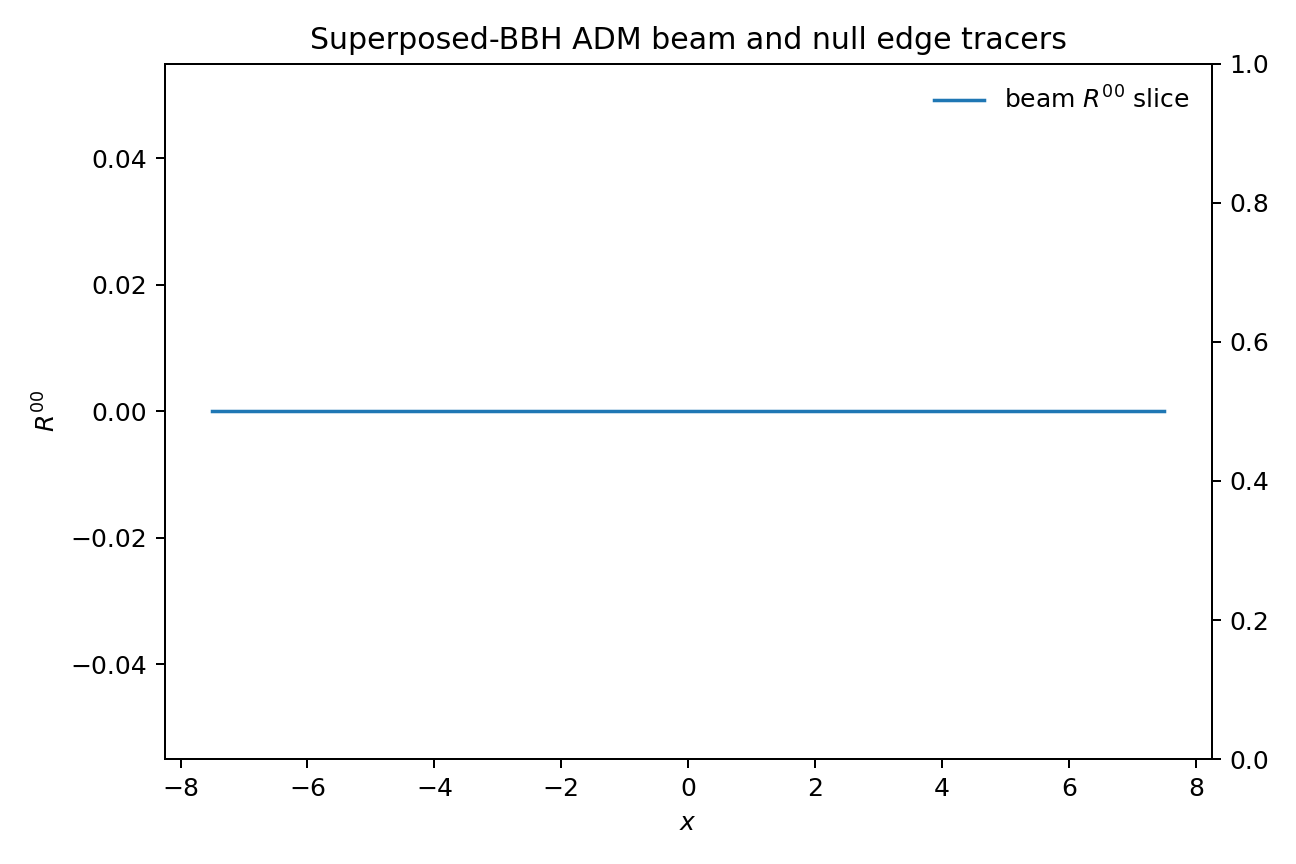
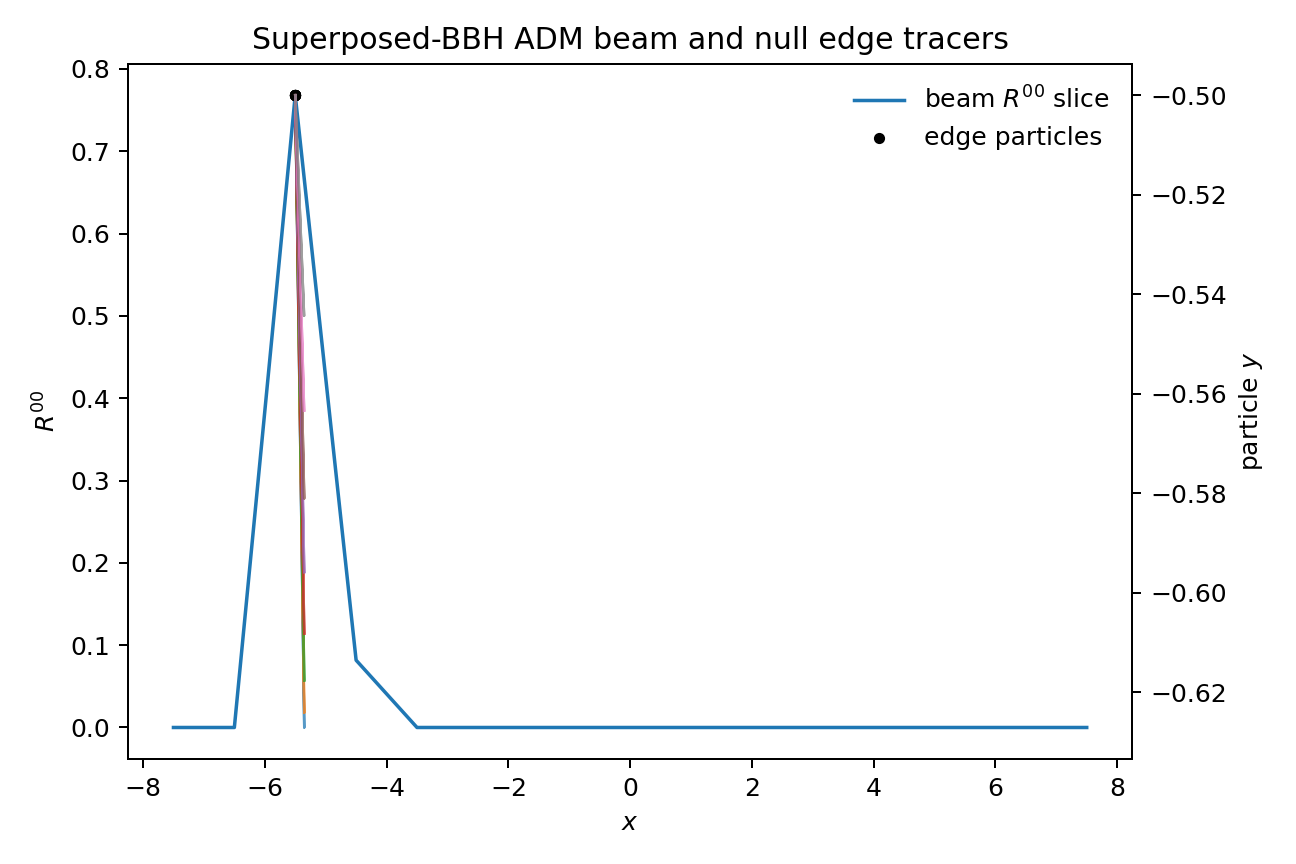
Document dynamical ADM radiation validation

diff --git a/dyngr_radiation_paper/dyngr_radiation_method.tex b/dyngr_radiation_paper/dyngr_radiation_method.tex
@@ -37,15 +37,17 @@ hole backgrounds or for metric data supplied by a dynamical spacetime solver.
 The new \code{dyn\_radiation} module keeps an exact compatibility mode for the
 legacy stationary solver, but adds an ADM formulation in which the evolved
 quantity is the Eulerian densitized intensity, the spatial transport speed is
-\(\alpha s^i-\beta^i\), and the geometric energy source is written in Valencia
-form using \(\alpha\), \(\beta^i\), \(\gamma_{ij}\), and \(K_{ij}\).  This avoids
-assuming a time-independent metric and does not require explicit gauge-field
-time derivatives.  We also add a diagnostic null-geodesic particle pusher for
-beam-edge tracers on ADM backgrounds.  Flat-space beam tests reproduce the
-legacy solver to roundoff, radiation-hydrodynamic linear-wave tests reproduce
-the legacy error norms in stationary Kerr-Schild mode, and a superposed
-boosted-Kerr-Schild binary test exercises the ADM beam source and null-particle
-tracers.
+\(\alpha s^i-\beta^i\), angular geodesic advection is computed from the ADM
+Hamiltonian, and the geometric energy source is written in Valencia form using
+\(\alpha\), \(\beta^i\), \(\gamma_{ij}\), and \(K_{ij}\).  This avoids assuming a
+time-independent metric and does not require explicit gauge-field time
+derivatives beyond the ADM metric-evolution relation for
+\(\partial_t\gamma_{ij}\).  We also add a diagnostic null-geodesic particle
+pusher for beam-edge tracers on ADM backgrounds.  Flat-space beam tests
+reproduce the legacy solver to roundoff, radiation-hydrodynamic linear-wave
+tests reproduce the legacy error norms in stationary Kerr-Schild mode, and a
+superposed boosted-Kerr-Schild binary test exercises the ADM beam source, ADM
+matter coupling, and null-particle tracers.
 \end{abstract}
 
 \noindent\textbf{Keywords:} numerical relativity; radiation hydrodynamics;
@@ -68,12 +70,12 @@ The goal of the implementation described here is narrower than a full
 production radiation scheme.  We add a separate \code{dyn\_radiation} package,
 rather than changing the existing \code{radiation} module, so that the legacy
 stationary path remains available and bitwise comparisons remain possible.  The
-first ADM branch implements spatial transport and the radiation energy source in
-a Valencia-compatible form.  It deliberately does not yet include ADM angular
-geodesic advection; the code therefore requires \code{angular\_fluxes=false} in
-ADM mode.  This is sufficient for beam propagation, source-term verification,
-and dynamical-background smoke tests, while leaving a clean path toward the full
-momentum-space transport operator.
+current ADM branch implements spatial transport, angular geodesic advection,
+radiation-matter coupling, and the radiation energy source in a
+Valencia-compatible form.  The angular advection coefficients are rebuilt from
+cached ADM geometry each stage, so ADM mode now supports
+\code{angular\_fluxes=true}.  The implementation remains separate from the
+legacy solver so stationary CKS behavior can still be tested directly.
 
 The paper is organized as follows.  Section~\ref{sec:legacy} summarizes the
 stationary-metric solver.  Section~\ref{sec:adm} derives the ADM variables and
@@ -236,10 +238,51 @@ The corresponding Valencia momentum equation is
     -E\partial_j\alpha\right].
   \label{eq:valencia_momentum}
 \end{equation}
-Recovering Equation~\eqref{eq:valencia_momentum} at the discrete angular level
-requires a momentum-space advection operator for ADM geodesic bending.  That
-operator is not part of the present ADM transport branch; this is the reason ADM
-runs currently reject \code{angular\_fluxes=true}.
+\subsection{ADM angular geodesic advection}
+
+ADM angular advection is computed from the coordinate-time null Hamiltonian
+\begin{equation}
+  H(x^i,p_i)=\alpha\sqrt{\gamma^{ij}p_i p_j}-\beta^i p_i .
+  \label{eq:adm_hamiltonian}
+\end{equation}
+For the Eulerian tetrad normalization used here,
+\(\sqrt{\gamma^{ij}p_i p_j}=1\), \(p_i=e^{(\hat a)}_{\ i}\ell_{(\hat a)}\),
+and
+\begin{align}
+  \dot x^i &= \alpha s^i-\beta^i,\\
+  \dot p_i &=
+  -\partial_i\alpha+p_j\partial_i\beta^j
+  -\frac{\alpha}{2}p_jp_k\partial_i\gamma^{jk}.
+  \label{eq:adm_pdot}
+\end{align}
+The local angular direction is reconstructed using the cached Cholesky
+co-triad \(e^{(\hat a)}_{\ i}\),
+\begin{equation}
+  \ell^{(\hat a)} = E^i_{\ (\hat a)}p_i .
+\end{equation}
+Differentiating this relation in the same triad gauge gives
+\begin{equation}
+  \dot\ell^{(\hat a)}
+  =E^i_{\ (\hat a)}
+  \left[
+    \dot p_i
+    -\left(\partial_t e^{(\hat b)}_{\ i}
+    +\dot x^j\partial_j e^{(\hat b)}_{\ i}\right)\ell_{(\hat b)}
+  \right].
+  \label{eq:admdotell}
+\end{equation}
+The time derivative of the co-triad is obtained by differentiating the same
+Cholesky factorization used for the spatial triad, with
+\begin{equation}
+  \partial_t\gamma_{ij}
+  =-2\alpha K_{ij}+D_i\beta_j+D_j\beta_i .
+  \label{eq:adm_gdot}
+\end{equation}
+Equation~\eqref{eq:admdotell} is projected onto the existing geodesic-grid
+angular face normals.  The angular finite-volume flux then advects the ADM
+conserved intensity \(U_n=\sqrt{\gamma}I_n\) directly.  In the CKS
+compatibility branch the legacy angular primitive \(U_n/k^0_n\) is still used,
+so the stationary path is unchanged.
 
 \section{Numerical Algorithm and Implementation}
 \label{sec:alg}
@@ -266,11 +309,15 @@ At each explicit stage, ADM mode performs the following operations:
 \begin{enumerate}
   \item Fill or update ADM variables on cell centers and faces.
   \item Construct Eulerian spatial tetrads by factorizing \(\gamma_{ij}\).
-  \item Fill \(\sqrt{\gamma}\), \(\alpha\), \(\beta^i\), and tetrad columns on
-        the faces needed by spatial transport.
+  \item Fill cached \(\sqrt{\gamma}\), \(\alpha\), \(\beta^i\),
+        \(\gamma_{ij}\), \(\gamma^{ij}\), \(K_{ij}\), tetrad columns,
+        co-triads, spatial metric gradients, and co-triad derivatives.
   \item Reconstruct \(\I_n=U_n/\sqrt{\gamma}\) to faces.
   \item Compute face speeds \(v^i_n=\alpha s^i_n-\beta^i\) and fluxes from
         Equation~\eqref{eq:admflux}.
+  \item Compute angular drift from Equations~\eqref{eq:adm_pdot} and
+        \eqref{eq:admdotell}; form angular fluxes using \(U_n\) as the
+        upwinded quantity.
   \item Apply flux divergence to \(U_n\).
   \item Apply the per-angle geometric source in Equation~\eqref{eq:anglesource}.
   \item Apply matter/source terms, boundary exchange, and AMR operations.
@@ -317,9 +364,12 @@ forms
   s^i_n = E_{(\hat{a})}^{\ i}\ell_n^{(\hat{a})}
 \end{equation}
 with a small dense matrix-vector product.  The natural next optimization is to
-cache \(\sqrt{\gamma}\), \(\alpha\), \(\beta^i\), the tetrad columns, and any
-needed metric gradients once per stage, then reuse them across all angular
-transport and source kernels.  This keeps the cost scaling as
+cache all metric quantities needed by Equations~\eqref{eq:adm_pdot} and
+\eqref{eq:admdotell} once per stage, then reuse them across all angular
+transport and source kernels.  That cache now contains \(\sqrt{\gamma}\),
+\(\alpha\), \(\beta^i\), \(\gamma_{ij}\), \(\gamma^{ij}\), \(K_{ij}\), the
+triad and co-triad, spatial gradients, and \(\partial_t e^{(\hat a)}_{\ i}\).
+This keeps the cost scaling as
 \(O(N_{\mathrm{cell}})\) for metric preparation plus
 \(O(N_{\mathrm{cell}}N_\Omega)\) for angular transport, instead of rebuilding a
 complete tetrad inside each angle loop.
@@ -393,6 +443,25 @@ are \(0\) for both the CKS-compatible and ADM-flat branches.  The same ADM flat
 beam input also completed under \code{mpirun -n 2}, testing MPI decomposition
 for this path.
 
+A separate stationary Kerr-Schild ADM smoke test is included at
+\path{inputs/tests/dynrad_bh_beam_adm.athinput}.  That input keeps the metric
+time-independent but non-flat, and runs \code{geometry=adm} with
+\code{angular\_fluxes=true}.  It therefore exercises the Hamiltonian angular
+drift, metric-gradient cache, and ADM angular timestep limiter without relying
+on the BBH problem generator.  The short regression completed to \(t=0.2\)
+with finite radiation output.
+
+The dynamic-metric smoke input
+\begin{center}
+\small
+\path{inputs/tests/dynrad_z4c_wave_adm.athinput}
+\end{center}
+adds \code{dyn\_radiation} to the Z4c linear-wave background.  This checks
+that ADM metric fields supplied by the Z4c-to-ADM conversion are accepted by
+the standalone radiation module and that the per-stage geometry cache can be
+refreshed on a time-dependent metric with \code{angular\_fluxes=true}.  The
+compact regression completed without NaNs or infinities.
+
 \begin{figure}[htbp]
 \centering
 \includegraphics[width=0.82\linewidth]{figures/beam_comparison.png}
@@ -453,14 +522,16 @@ The binary-background input is
 \path{dyngr_radiation_paper/inputs/dynbbh_beam_particles.athinput}.
 \end{center}
 It exercises the ADM beam source on the superposed boosted Kerr-Schild binary
-background in \code{src/pgen/dynbbh.cpp}.  It also initializes null particles on
-the beam edge and advances them using Equations~\eqref{eq:null_x} and
-\eqref{eq:null_k}.  The serial smoke test produced a finite beam slice with
-\(\max R^{00}=0.767972\), wrote a normal-size particle track file, and generated
-the diagnostic figure shown in Figure~\ref{fig:dynbbh}.  A zero-step MPI setup
-for this input completed, but a full coupled two-rank dynbbh/MHD evolution was
-not certified in this pass because the pre-existing coupled path stalled after
-cycle zero independently of the new particle-output fixes.
+background in \code{src/pgen/dynbbh.cpp}.  It runs with
+\code{geometry=adm} and \code{angular\_fluxes=true}.  It also initializes null
+particles on the beam edge and advances them using Equations~\eqref{eq:null_x}
+and \eqref{eq:null_k}.  The serial smoke test produced a finite beam slice with
+\(\max R^{00}=0.768007\), wrote a normal-size particle track file, and generated
+the diagnostic figure shown in Figure~\ref{fig:dynbbh}.  A second serial run
+enabled ADM radiation-matter coupling with absorption and scattering opacities
+and completed without NaNs.  A two-rank flat ADM beam run passed.  A full
+two-rank dynbbh/MHD evolution was not certified in this pass because that
+coupled path stalled after cycle zero even when ADM angular fluxes were disabled.
 
 \begin{figure}[htbp]
 \centering
@@ -480,8 +551,11 @@ Test & Quantity checked & Result \\
 Flat beam, CKS compatibility & \(\max |R^{00}_{\rm dynrad}-R^{00}_{\rm legacy}|\) & \(0\) \\
 Flat beam, ADM mode & \(\max |R^{00}_{\rm ADM}-R^{00}_{\rm legacy}|\) & \(0\) \\
 Flat ADM beam, MPI & two-rank decomposition & passed \\
+Stationary KS ADM beam & nonzero ADM angular drift & passed \\
+Dynamic Z4c ADM smoke & time-dependent ADM metric cache & passed \\
 CKS linear wave & final error row & identical \\
 BBH ADM beam & finite beam and particle tracks & passed in serial \\
+BBH ADM coupling & absorption/scattering with MHD primitives & passed in serial \\
 BBH coupled MPI evolution & full two-rank dynbbh/MHD run & not certified \\
 \bottomrule
 \end{tabular}
@@ -504,8 +578,8 @@ Metric source & Analytic stationary CKS metric & CKS compatibility mode or ADM m
 Conserved intensity & \(k^0k_0I\) & CKS: \(k^0k_0I\); ADM: \(\sqrt{\gamma}I\) \\
 Spatial speed & \(k^i\) from stationary tetrad & CKS: \(k^i\); ADM: \(\alpha s^i-\beta^i\) \\
 Metric source terms & Stationary tetrad and angular drift coefficients & ADM Valencia energy source using \(K_{ij}\) and \(\partial_i\alpha\) \\
-Angular bending & Precomputed CKS coefficients & Not yet enabled in ADM mode \\
-Matter coupling & Existing local implicit path & CKS-compatible path retained; full ADM validation pending \\
+Angular bending & Precomputed CKS coefficients & Cached ADM Hamiltonian angular drift \\
+Matter coupling & Existing local implicit path & CKS path retained; ADM uses \(I=U/\sqrt{\gamma}\), Eulerian tetrad frequency, and Valencia moment feedback \\
 Binary backgrounds & Not supported directly & Supported through ADM fields \\
 \bottomrule
 \end{tabular}
@@ -523,29 +597,21 @@ sources are built from ADM variables supplied by the active spacetime module.
 \section{Discussion and Limitations}
 \label{sec:discussion}
 
-The present implementation is a controlled first step toward dynamical
-radiation transport.  It is complete enough to move radiation energy on ADM
-backgrounds, to reproduce stationary beam and linear-wave regressions, and to
-diagnose beam propagation on the superposed binary metric.  It is not yet a
-complete general relativistic discrete-ordinates scheme on arbitrary dynamical
-spacetimes.
+The present implementation is a controlled step toward dynamical radiation
+transport.  It moves radiation energy on ADM backgrounds, bends the angular
+directions with an ADM Hamiltonian operator, reproduces stationary beam and
+linear-wave regressions, and diagnoses beam propagation on the superposed binary
+metric.  It is still not a final production radiation module.  The angular
+operator uses second-order metric-gradient caches; higher-order gradients and
+limiters can be added behind the same cache interface.  The discrete
+momentum-source consistency check in Equation~\eqref{eq:valencia_momentum} is
+the next validation target.
 
-The most important missing piece is the ADM angular transport operator.  In a
-full scheme, the angular directions \(\ell_n^{(\hat{a})}\) must be advected by
-the tetrad-frame geodesic equation so that the discrete moments reproduce both
-the energy source in Equation~\eqref{eq:valenciaE} and the momentum source in
-Equation~\eqref{eq:valencia_momentum}.  A practical implementation should avoid
-per-angle tetrad reconstruction by caching the Eulerian tetrad and metric
-gradients once per stage, then evaluating angular drift coefficients with
-matrix-vector operations in each angle bin.  This is also the natural place to
-add higher-order interpolation and flux-limited angular advection.
-
-Matter coupling is another area that needs a dedicated ADM pass.  The
-CKS-compatible branch preserves the existing behavior so that regression tests
-remain meaningful.  A production ADM radiation-hydrodynamics path should express
-emission, absorption, and scattering in the Eulerian/comoving tetrad used by the
-ADM transport variables, then update gas and radiation consistently with the
-Valencia conserved variables.
+The ADM matter-coupling path now uses the Eulerian tetrad frequency factor,
+\(I=U/\sqrt{\gamma}\), and gas feedback through the Valencia radiation moments.
+It has passed flat and BBH smoke tests, but it still needs a broader validation
+suite with moving-fluid absorption/scattering, optically thick diffusion, and
+time-dependent metric backgrounds.
 
 Finally, the null-particle pusher is currently a diagnostic tool.  It uses
 nearest-cell ADM fields and centered finite differences.  It is useful for beam
@@ -561,13 +627,14 @@ module for AthenaK.  The solver preserves legacy CKS behavior in a compatibility
 mode and adds an ADM mode based on Eulerian densitized intensity, Valencia
 coordinate speeds, and a per-angle geometric source whose angular sum recovers
 the Valencia radiation energy equation.  The formulation is suitable for
-time-dependent ADM backgrounds because the metric evolution enters through
-\(K_{ij}\), rather than through stationarity assumptions or explicit gauge-field
-time derivatives.  Regression tests show exact agreement with the legacy flat
-beam, identical stationary CKS linear-wave error norms, successful two-rank
-flat ADM beam transport, and a serial ADM beam-plus-null-particle smoke test on
-the superposed binary black-hole background.  The remaining work is to add ADM
-angular geodesic transport, complete the ADM matter-coupling validation, and
-upgrade the diagnostic particle pusher if high-accuracy geodesics are required.
+time-dependent ADM backgrounds because metric evolution enters through
+\(K_{ij}\) and the ADM co-triad time derivative, rather than through
+stationarity assumptions.  Regression tests show exact agreement with the
+legacy flat beam, identical stationary CKS linear-wave error norms, successful
+two-rank flat ADM beam transport, and serial ADM beam-plus-null-particle and
+matter-coupling smoke tests on the superposed binary black-hole background.  The
+remaining work is to strengthen the momentum-source and matter-coupling
+validation suite and upgrade the diagnostic particle pusher if high-accuracy
+geodesics are required.
 
 \end{document}

diff --git a/dyngr_radiation_paper/README.md b/dyngr_radiation_paper/README.md
@@ -1,9 +1,10 @@
 # Dynamical Radiation Paper Assets
 
 This directory contains the method paper, compact comparison inputs, and plotting
-script for the standalone `dyn_radiation` solver.  The beam inputs write both a
-1D table slice and a 2D binary XY slice so the script can produce line-profile,
-field-map, and residual figures.
+script for the standalone `dyn_radiation` solver.  The ADM beam input runs with
+`angular_fluxes=true`, exercising the cached ADM angular geodesic transport.
+The beam inputs write both a 1D table slice and a 2D binary XY slice so the
+script can produce line-profile, field-map, and residual figures.
 
 The intended quick comparison sequence from the repository root is:
 
@@ -11,6 +12,8 @@ The intended quick comparison sequence from the repository root is:
 ./build/src/athena -i dyngr_radiation_paper/inputs/beam_radiation_cks.athinput
 ./build/src/athena -i dyngr_radiation_paper/inputs/beam_dynrad_cks.athinput
 ./build/src/athena -i dyngr_radiation_paper/inputs/beam_dynrad_adm_flat.athinput
+./build/src/athena -i inputs/tests/dynrad_bh_beam_adm.athinput
+./build/src/athena -i inputs/tests/dynrad_z4c_wave_adm.athinput
 ./build/src/athena -i dyngr_radiation_paper/inputs/lwave_radiation_cks.athinput job/basename=/tmp/paper_lwave_rad
 ./build/src/athena -i dyngr_radiation_paper/inputs/lwave_dynrad_cks.athinput job/basename=/tmp/paper_lwave_dyn
 python3 dyngr_radiation_paper/scripts/plot_comparisons.py
@@ -20,4 +23,6 @@ pdflatex -interaction=nonstopmode dyngr_radiation_method.tex
 The plotting step requires Python with NumPy and Matplotlib.
 
 The `dynbbh_beam_particles.athinput` input requires a build configured with
-`PROBLEM=dynbbh`.
+`PROBLEM=dynbbh`.  Its default keeps radiation-matter coupling off for a clean
+beam/particle smoke test; set `dyn_radiation/rad_source=true` to exercise the
+ADM absorption/scattering coupling coefficients included in the input.